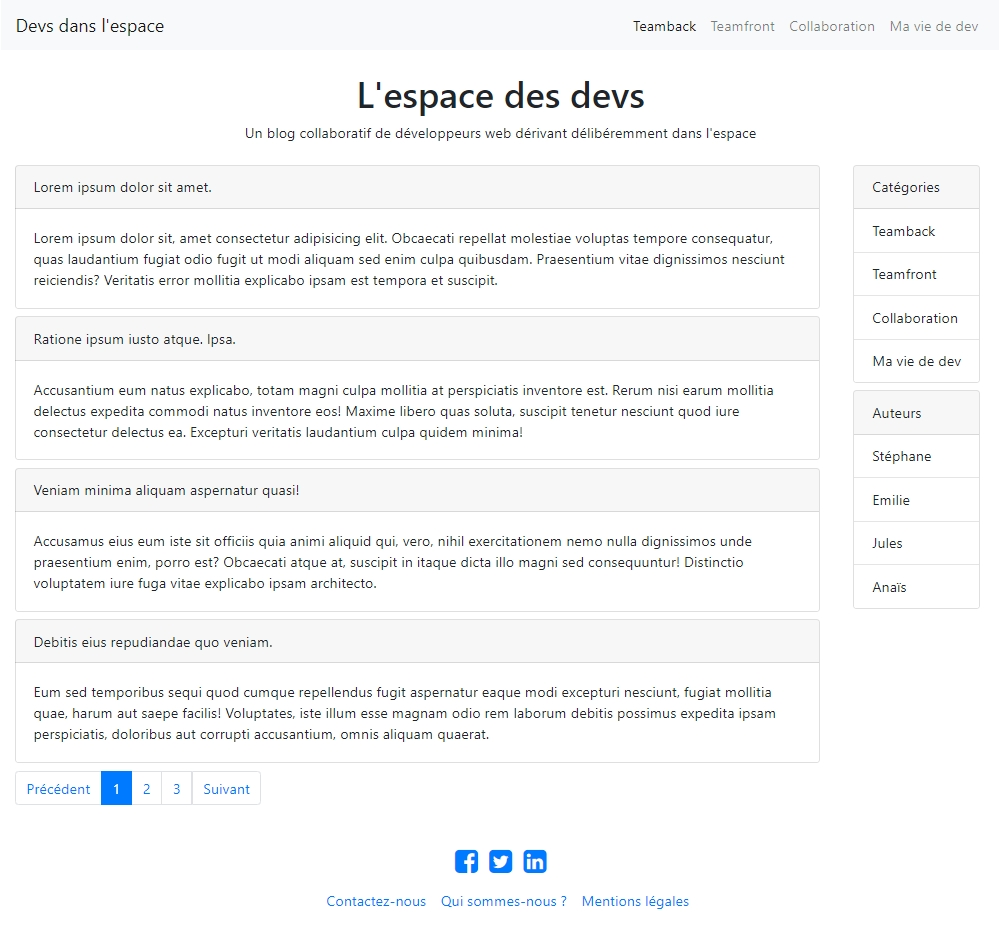
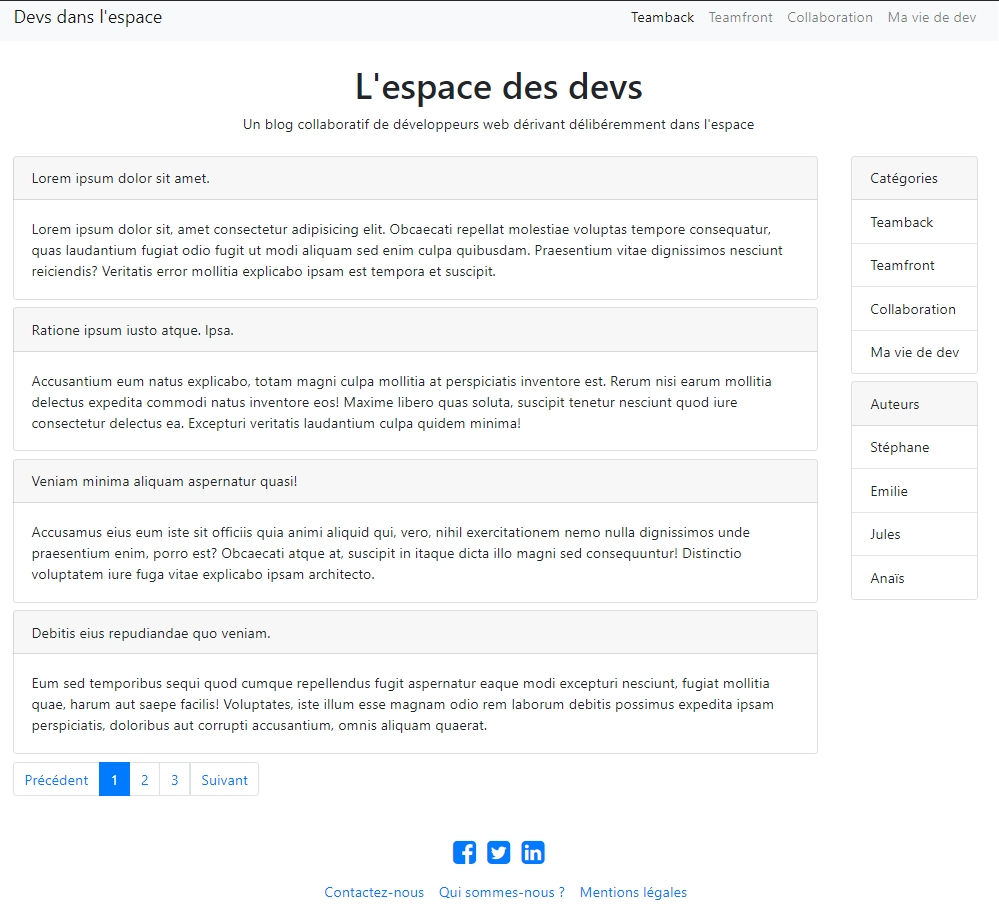
add screenshots

diff --git a/README.md b/README.md
@@ -1,1 +1,5 @@
 # Blog - Bootstrap based - 02/10/2019
+
+<img src = "screenshot1.jpg">
+
+<img src = "screenshot2.jpg">
